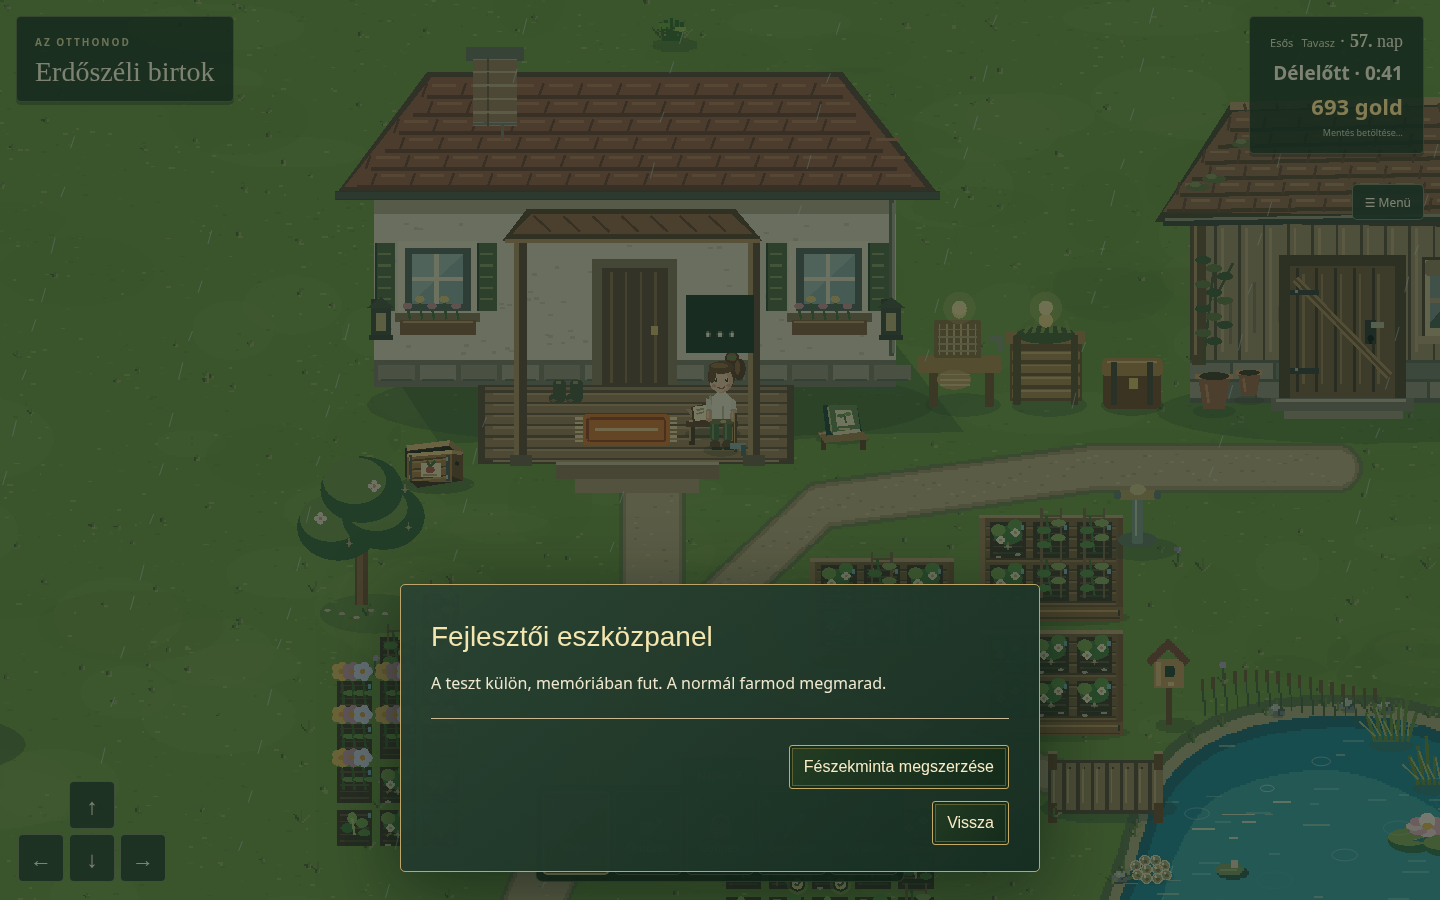
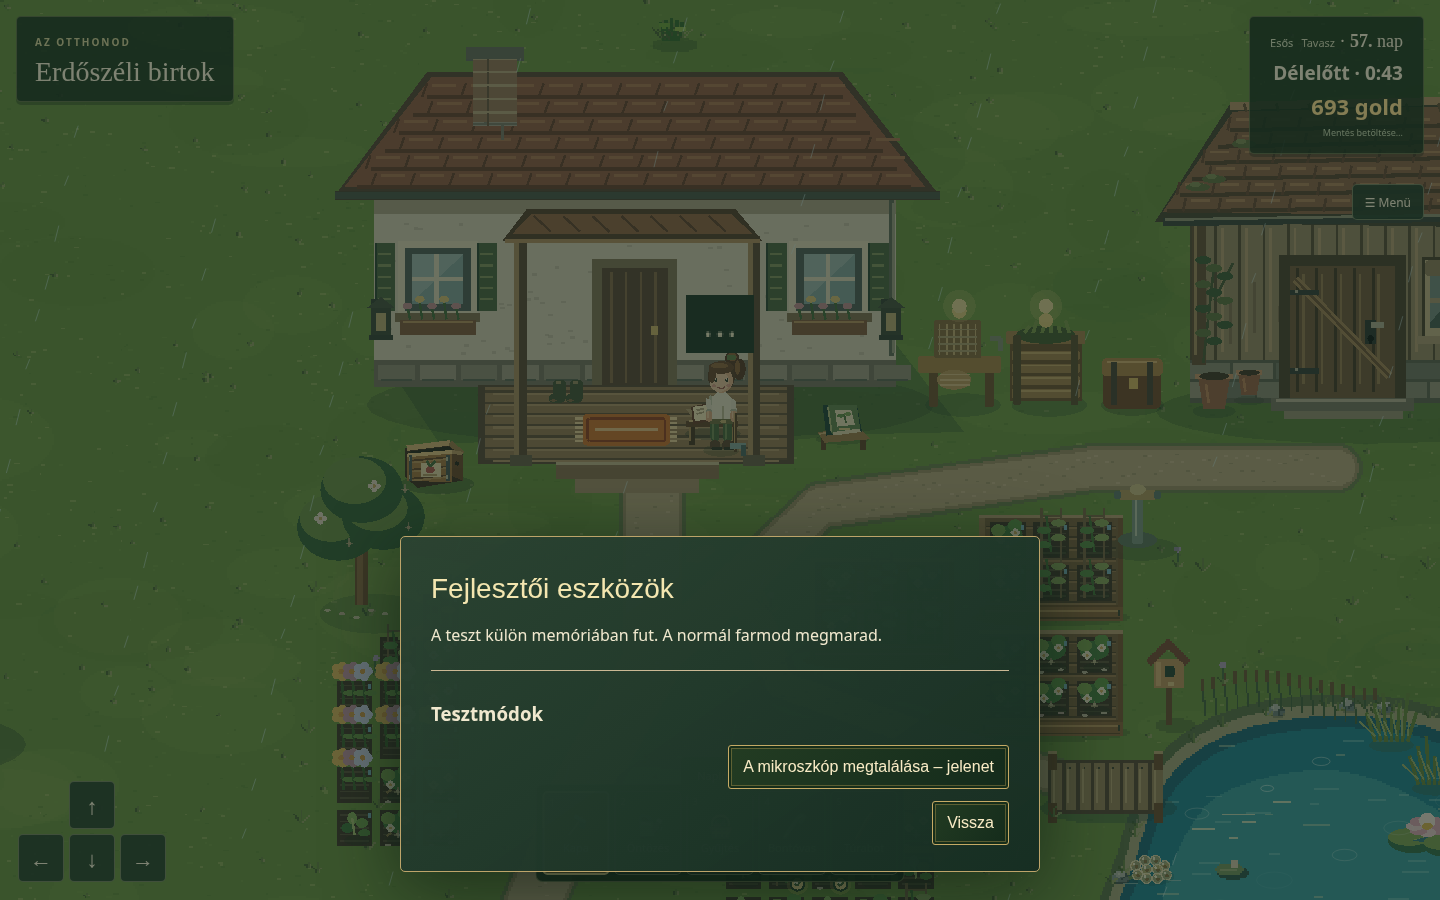
Hide developer tools behind dev URL and clarify scene labels

Changed region(s): [[0.2812, 0.5911, 0.7188, 0.8089], [0.5, 0.84, 0.6875, 0.8711]]

diff --git a/index.html b/index.html
@@ -23,7 +23,7 @@
   <div id="sleep-shade" aria-hidden="true"></div>
   <p id="status" role="status"></p>
   <div id="controls" aria-label="Mozgásvezérlés"><button data-dir="up" aria-label="Fel">↑</button><button data-dir="left" aria-label="Balra">←</button><button data-dir="down" aria-label="Le">↓</button><button data-dir="right" aria-label="Jobbra">→</button></div>
-  <button id="test-mode-banner" type="button" hidden>TESZTMÓD · Eszközpanel</button><div id="forest-health" hidden aria-live="polite"></div><aside id="quest-tracker" hidden aria-live="polite"></aside><dialog id="dialogue" aria-labelledby="dialogue-title"><form method="dialog"><div id="speaker" hidden><div id="speaker-portrait"></div><span id="speaker-name"></span></div><span class="eyebrow" id="dialogue-label" hidden></span><h2 id="dialogue-title" hidden></h2><p id="dialogue-text"></p><section id="preview-end-panel" hidden><button id="preview-farms" type="button">Tovább játszom</button></section><section id="start-panel" hidden><div class="start-actions"><button id="continue-farm" type="button" hidden>Folytatás<small id="continue-farm-name"></small></button><button id="new-farm" type="button">Új játék</button><button id="start-settings" type="button">Beállítások</button><button id="open-farms" type="button" class="menu-link">Mentett farmok</button></div><p id="farm-list-error" role="status"></p><button id="retry-farms" type="button" hidden>Újrapróbálom</button><h3 class="farm-library-heading">Mentett farmjaid</h3><button id="back-from-farms" type="button" class="menu-link">Vissza</button><div id="farm-list"></div></section><section id="morning-sale-panel" hidden></section><section id="level-reward-panel" hidden></section><section id="farm-name-panel" hidden><label for="farm-name">Farm neve</label><input id="farm-name" type="text" maxlength="80" autocomplete="off" aria-describedby="farm-name-error"><p id="farm-name-error" role="status"></p><button id="start-farm" type="button">Tovább</button><button id="cancel-farm-name" type="button">Vissza a főmenübe</button></section><section id="menu-panel" hidden><div class="pause-actions"><button id="resume-game" type="button">Vissza a játékba</button><button id="pause-settings" type="button">Beállítások</button><button id="open-start-menu" type="button">Főmenü</button></div><div class="menu-utilities"><button id="produce" type="button">Készlet</button><button id="story" type="button">Történet</button><button id="help" type="button">Irányítás</button><button id="microscope-test" type="button" hidden>Fejlesztői eszközpanel</button></div></section><section id="settings-panel" hidden><h3>Beállítások</h3><button id="music-toggle" type="button">Zene: be</button><label class="music-choice" for="music-track">Dallam<select id="music-track" aria-label="Háttérzene kiválasztása"></select></label><button id="menu-sound-toggle" type="button" aria-pressed="true">Menühangok: be</button><button id="settings-back" type="button">Vissza</button></section><section id="inventory-panel" hidden><div class="inventory-tabs" role="tablist" aria-label="Készlet, ismerősök, jártasságok, célok és tervrajzok"><button id="items-tab" type="button" role="tab" aria-selected="true" aria-controls="items-page">Készlet</button><button id="people-tab" type="button" role="tab" aria-selected="false" aria-controls="people-page" tabindex="-1">Ismerősök</button><button id="skills-tab" type="button" role="tab" aria-selected="false" aria-controls="skills-page" tabindex="-1">Jártasságok</button><button id="goals-tab" type="button" role="tab" aria-selected="false" aria-controls="goals-page" tabindex="-1">Célok</button><button id="blueprints-tab" type="button" role="tab" aria-selected="false" aria-controls="blueprints-page" tabindex="-1">Tervrajzok</button></div><div id="items-page" role="tabpanel" aria-labelledby="items-tab"><div id="backpack-summary" aria-live="polite"></div><div id="backpack-grid" class="backpack-grid" aria-label="A hátizsák rekeszei"></div><div id="inventory-extra-actions"></div><h3 id="carried-tools-title">Eszközök és küldetéstárgyak</h3><div id="carried-tools" class="carried-tools"></div></div><div id="people-page" role="tabpanel" aria-labelledby="people-tab" hidden></div><div id="skills-page" role="tabpanel" aria-labelledby="skills-tab" hidden></div><div id="goals-page" role="tabpanel" aria-labelledby="goals-tab" hidden></div><div id="blueprints-page" role="tabpanel" aria-labelledby="blueprints-tab" hidden></div></section><section id="research-panel" hidden></section><section id="shop-panel" hidden></section><section id="catalog-panel" hidden><div id="catalog-rows"></div><p id="catalog-total" role="status"></p><button id="place-order" type="button">Megrendelem</button></section><section id="mailbox-panel" hidden><p id="mailbox-content"></p><button id="collect-package" type="button">Átveszem a csomagot</button></section><section id="shipping-panel" hidden><div class="shipping-heading">Eladásra szánt termények</div><div id="shipping-crate" class="slot-grid" aria-label="Eladóláda"></div><div class="shipping-heading">A készleted</div><div id="shipping-inventory" class="slot-grid" aria-label="Betakarított termények"></div><p class="shipping-hint">Kattintás vagy húzás: teljes halom · Shift+kattintás: 1 db</p><p id="shipping-total"></p></section><button id="sleep" type="button" hidden>Pihenés reggelig</button><button id="export-save" type="button" hidden>Mentés letöltése</button><button id="dialogue-close" autofocus>Vissza</button></form></dialog>
+  <button id="test-mode-banner" type="button" hidden>TESZTMÓD · Eszközpanel</button><div id="forest-health" hidden aria-live="polite"></div><aside id="quest-tracker" hidden aria-live="polite"></aside><dialog id="dialogue" aria-labelledby="dialogue-title"><form method="dialog"><div id="speaker" hidden><div id="speaker-portrait"></div><span id="speaker-name"></span></div><span class="eyebrow" id="dialogue-label" hidden></span><h2 id="dialogue-title" hidden></h2><p id="dialogue-text"></p><section id="preview-end-panel" hidden><button id="preview-farms" type="button">Tovább játszom</button></section><section id="start-panel" hidden><div class="start-actions"><button id="continue-farm" type="button" hidden>Folytatás<small id="continue-farm-name"></small></button><button id="new-farm" type="button">Új játék</button><button id="start-settings" type="button">Beállítások</button><button id="open-farms" type="button" class="menu-link">Mentett farmok</button></div><p id="farm-list-error" role="status"></p><button id="retry-farms" type="button" hidden>Újrapróbálom</button><h3 class="farm-library-heading">Mentett farmjaid</h3><button id="back-from-farms" type="button" class="menu-link">Vissza</button><div id="farm-list"></div></section><section id="morning-sale-panel" hidden></section><section id="level-reward-panel" hidden></section><section id="farm-name-panel" hidden><label for="farm-name">Farm neve</label><input id="farm-name" type="text" maxlength="80" autocomplete="off" aria-describedby="farm-name-error"><p id="farm-name-error" role="status"></p><button id="start-farm" type="button">Tovább</button><button id="cancel-farm-name" type="button">Vissza a főmenübe</button></section><section id="menu-panel" hidden><div class="pause-actions"><button id="resume-game" type="button">Vissza a játékba</button><button id="pause-settings" type="button">Beállítások</button><button id="open-start-menu" type="button">Főmenü</button></div><div class="menu-utilities"><button id="produce" type="button">Készlet</button><button id="story" type="button">Történet</button><button id="help" type="button">Irányítás</button><button id="microscope-test" type="button" hidden>Fejlesztői eszközök</button></div></section><section id="settings-panel" hidden><h3>Beállítások</h3><button id="music-toggle" type="button">Zene: be</button><label class="music-choice" for="music-track">Dallam<select id="music-track" aria-label="Háttérzene kiválasztása"></select></label><button id="menu-sound-toggle" type="button" aria-pressed="true">Menühangok: be</button><button id="settings-back" type="button">Vissza</button></section><section id="inventory-panel" hidden><div class="inventory-tabs" role="tablist" aria-label="Készlet, ismerősök, jártasságok, célok és tervrajzok"><button id="items-tab" type="button" role="tab" aria-selected="true" aria-controls="items-page">Készlet</button><button id="people-tab" type="button" role="tab" aria-selected="false" aria-controls="people-page" tabindex="-1">Ismerősök</button><button id="skills-tab" type="button" role="tab" aria-selected="false" aria-controls="skills-page" tabindex="-1">Jártasságok</button><button id="goals-tab" type="button" role="tab" aria-selected="false" aria-controls="goals-page" tabindex="-1">Célok</button><button id="blueprints-tab" type="button" role="tab" aria-selected="false" aria-controls="blueprints-page" tabindex="-1">Tervrajzok</button></div><div id="items-page" role="tabpanel" aria-labelledby="items-tab"><div id="backpack-summary" aria-live="polite"></div><div id="backpack-grid" class="backpack-grid" aria-label="A hátizsák rekeszei"></div><div id="inventory-extra-actions"></div><h3 id="carried-tools-title">Eszközök és küldetéstárgyak</h3><div id="carried-tools" class="carried-tools"></div></div><div id="people-page" role="tabpanel" aria-labelledby="people-tab" hidden></div><div id="skills-page" role="tabpanel" aria-labelledby="skills-tab" hidden></div><div id="goals-page" role="tabpanel" aria-labelledby="goals-tab" hidden></div><div id="blueprints-page" role="tabpanel" aria-labelledby="blueprints-tab" hidden></div></section><section id="research-panel" hidden></section><section id="shop-panel" hidden></section><section id="catalog-panel" hidden><div id="catalog-rows"></div><p id="catalog-total" role="status"></p><button id="place-order" type="button">Megrendelem</button></section><section id="mailbox-panel" hidden><p id="mailbox-content"></p><button id="collect-package" type="button">Átveszem a csomagot</button></section><section id="shipping-panel" hidden><div class="shipping-heading">Eladásra szánt termények</div><div id="shipping-crate" class="slot-grid" aria-label="Eladóláda"></div><div class="shipping-heading">A készleted</div><div id="shipping-inventory" class="slot-grid" aria-label="Betakarított termények"></div><p class="shipping-hint">Kattintás vagy húzás: teljes halom · Shift+kattintás: 1 db</p><p id="shipping-total"></p></section><button id="sleep" type="button" hidden>Pihenés reggelig</button><button id="export-save" type="button" hidden>Mentés letöltése</button><button id="dialogue-close" autofocus>Vissza</button></form></dialog>
 <dialog id="delete-farm-dialog" aria-labelledby="delete-farm-title" aria-describedby="delete-farm-warning"><h2 id="delete-farm-title">Farm törlése</h2><p id="delete-farm-name"></p><p id="delete-farm-warning">Biztosan törölni szeretnéd ezt a farmot? A farm törlés után nem visszaállítható.</p><p id="delete-farm-error" role="status"></p><div class="delete-farm-actions"><button id="cancel-delete-farm" type="button">Mégse</button><button id="confirm-delete-farm" type="button">Törlés</button></div></dialog></main>
 <script type="module" src="/src/main.ts"></script>
 </body></html>

diff --git a/cypress/e2e/forest.cy.ts b/cypress/e2e/forest.cy.ts
@@ -4,7 +4,7 @@ import {createGarden} from '../../src/gardening';
 import {createForest,forestEnemies} from '../../src/forest';
 import {gainGardening} from '../../src/gardening-skill';
 function press(key:string,code:string,n:number){cy.get('body').trigger('keydown',{key,code,keyCode:n,which:n});cy.get('body').trigger('keyup',{key,code,keyCode:n,which:n});}
-function start(data:Snapshot){cy.visit('/',{onBeforeLoad(win){win.indexedDB.deleteDatabase('erdoszeli-birtok');const r=win.indexedDB.open('erdoszeli-birtok',1);r.onupgradeneeded=()=>r.result.createObjectStore('saves');r.onsuccess=()=>{const tx=r.result.transaction('saves','readwrite');tx.objectStore('saves').put(data,'active');tx.oncomplete=()=>r.result.close();};}});cy.get('#game').should('have.attr','data-ready','true');cy.get('#continue-farm').should('be.visible').and('not.be.disabled').click();}
+function start(data:Snapshot,dev=false){cy.visit(dev?'/?dev=1':'/',{onBeforeLoad(win){win.indexedDB.deleteDatabase('erdoszeli-birtok');const r=win.indexedDB.open('erdoszeli-birtok',1);r.onupgradeneeded=()=>r.result.createObjectStore('saves');r.onsuccess=()=>{const tx=r.result.transaction('saves','readwrite');tx.objectStore('saves').put(data,'active');tx.oncomplete=()=>r.result.close();};}});cy.get('#game').should('have.attr','data-ready','true');cy.get('#continue-farm').should('be.visible').and('not.be.disabled').click();}
 function fresh(x=330,y=260){const s=snapshot({x,y},createClock(10),createGarden());s.farmName='Erdőszéli birtok';s.travel.weatherSeed=13;s.story={giftReceived:true,morningSeen:true,birdhouse:{x:280,y:296}};return s;}
 function clickWorld(x:number,y:number){cy.get('#game').then(el=>{const z=Number(el.attr('data-zoom'));cy.get('canvas').click((x-Number(el.attr('data-camera-x')))*z,(y-Number(el.attr('data-camera-y')))*z);});}
 function repairedWorkshop(s:Snapshot){const flowers=[[341,272],[365,272],[389,272],[341,296],[365,296],[389,296]].map(([x,y])=>({x,y,growth:4}));s.plots=flowers.map(f=>[`${f.x},${f.y}`,{crop:null,growth:0,regrowing:false,watered:false}]);s.travel.research={...s.travel.research,gifted:true,seeds:0,flowers,beeDay:8,observation:{day:9,seasonDay:9,plant:'Tavaszi vadvirágkeverék'},key:true,shutter:true,entranceShutter:true,discovered:true,repaired:true,examined:['vat','pipes','filter','coil']};return s;}
@@ -29,7 +29,7 @@ it('remembers the workshop name after the first entry, even before opening the s
 });
 
 it('prepares the nest encounter repeatedly in an isolated memory copy of any farm',()=>{
- const s=repairedWorkshop(fresh(250,220));s.farmName='Próba birtok';s.economy.gold=347;s.clearing.wood=40;s.travel.forest={...createForest(),stick:true,defeated:forestEnemies.map(e=>e.id),sample:true,examined:true,sent:true};start(s);cy.get('#menu').click();cy.get('#microscope-test').should('be.visible').click();cy.get('#prepare-microscope-test').click();cy.get('#game').should('have.attr','data-region','forest').and('have.attr','data-forest-sample','false').and('have.attr','data-gold','347').and('have.attr','data-wood','40').and('have.attr','data-microscope-ready','false');press('e','KeyE',69);cy.get('#collect-nest-sample').click();cy.get('#dialogue-title').should('have.text','A minta biztonságban van');cy.get('#dialogue-close').click();cy.get('#game').should('have.attr','data-forest-sample','true');cy.get('#game').should('not.have.attr','data-microscope-delivery');
+ const s=repairedWorkshop(fresh(250,220));s.farmName='Próba birtok';s.economy.gold=347;s.clearing.wood=40;s.travel.forest={...createForest(),stick:true,defeated:forestEnemies.map(e=>e.id),sample:true,examined:true,sent:true};start(s,true);cy.get('#menu').click();cy.get('#microscope-test').should('be.visible').click();cy.get('#prepare-microscope-test').click();cy.get('#game').should('have.attr','data-region','forest').and('have.attr','data-forest-sample','false').and('have.attr','data-gold','347').and('have.attr','data-wood','40').and('have.attr','data-microscope-ready','false');press('e','KeyE',69);cy.get('#collect-nest-sample').click();cy.get('#dialogue-title').should('have.text','A minta biztonságban van');cy.get('#dialogue-close').click();cy.get('#game').should('have.attr','data-forest-sample','true');cy.get('#game').should('not.have.attr','data-microscope-delivery');
  cy.get('#menu').click();cy.get('#microscope-test').click();cy.get('#prepare-microscope-test').click();cy.get('#game').should('have.attr','data-forest-sample','false').and('have.attr','data-gold','347');
  cy.get('#test-mode-banner').should('be.visible').click();cy.get('#exit-test-mode').click();cy.get('#game').should('have.attr','data-ready','true').and('have.attr','data-forest-sample','true');cy.get('#test-mode-banner').should('not.be.visible');
 });

diff --git a/src/main.ts b/src/main.ts
@@ -272,7 +272,7 @@ class Farm extends Phaser.Scene {
  private currentSnapshot(){return snapshot(this.actor,this.clock,this.garden,this.economy,this.orders,this.farmName,this.clearing,this.story,this.skill,this.farmerName,this.travel);}
  private openPauseMenu(){
   if(!this.ready||this.transitioning||this.morningPlaying||this.microscopeDeliveryPlaying)return;
-  showDialogue('Menü','','');document.querySelector<HTMLButtonElement>('#microscope-test')!.hidden=false;document.querySelector<HTMLElement>('#menu-panel')!.hidden=false;
+  showDialogue('Menü','','');document.querySelector<HTMLButtonElement>('#microscope-test')!.hidden=new URLSearchParams(location.search).get('dev')!=='1';document.querySelector<HTMLElement>('#menu-panel')!.hidden=false;
   document.querySelector<HTMLButtonElement>('#resume-game')!.focus();
  }
  private openSettings(origin:'start'|'pause'){
@@ -1140,10 +1140,11 @@ class Farm extends Phaser.Scene {
  }
  private testBaseline:Snapshot|null=null;
  private openMicroscopeTest(){
-  if(!this.ready||this.transitioning)return;
-  showDialogue('Fejlesztői eszközpanel','A teszt külön, memóriában fut. A normál farmod megmarad.','');
+  if(!this.ready||this.transitioning||new URLSearchParams(location.search).get('dev')!=='1')return;
+  showDialogue('Fejlesztői eszközök','A teszt külön memóriában fut. A normál farmod megmarad.','');
   const panel=document.querySelector<HTMLElement>('#research-panel')!;panel.replaceChildren();panel.hidden=false;
-  const button=document.createElement('button');button.type='button';button.id='prepare-microscope-test';button.textContent=this.store.testMode?'Fészekminta megszerzése · Újraindítás':'Fészekminta megszerzése';button.onclick=async()=>{
+  const heading=document.createElement('h3');heading.textContent='Tesztmódok';panel.append(heading);
+  const button=document.createElement('button');button.type='button';button.id='prepare-microscope-test';button.textContent=this.store.testMode?'A mikroszkóp megtalálása – jelenet · Újraindítás':'A mikroszkóp megtalálása – jelenet';button.onclick=async()=>{
    if(this.transitioning)return;button.disabled=true;
    try{
     if(!this.store.testMode){

diff --git a/docs/jatekterv.md b/docs/jatekterv.md
@@ -858,3 +858,8 @@ Amikor Sam először közel sétál valóban sikertelen terméskötődést mutat
 - A teszthelyzet előkészíti a megjavított Műhelyt, a fészek mellé helyezi Samet mintavétel előtt, hogy a hazatéréskor induló mikroszkópos jelenet ismét kipróbálható legyen. A korábbi fészekmegfigyelések csak a tesztmásolatból törlődnek.
 - Állandó TESZTMÓD jelzés nyitja a panelt. Újraindítás mindig a belépéskori farm másolatából indul. Kilépés az eredeti, mentett állapothoz tér vissza; oldalfrissítés/bezárás eldobja a tesztet. A panel egyszerű bezárása nem léptet ki a tesztből.
 - Ez nem külön Dev weboldal vagy kiadási ág, hanem ugyanazon játék elkülönített tesztüzemmódja. A mentésformátum változatlanul 18.
+
+### Fejlesztői eszközök elrejtése — 2026. október 28.
+- A Menü fejlesztői menüpontja csak a `?dev=1` URL-paraméterrel jelenik meg; ez kényelmi elrejtés, nem hozzáférés-védelem. Paraméter nélkül a panel megnyitása is tiltott.
+- Ablakcím és menüpont: Fejlesztői eszközök. Alcím: Tesztmódok. Jelenetgomb: A mikroszkóp megtalálása – jelenet. Szöveg: „A teszt külön memóriában fut. A normál farmod megmarad.”
+- A paraméter újratöltés és tesztből kilépés után is a hivatkozás része marad.

diff --git a/README.md b/README.md
@@ -116,3 +116,7 @@ A ház jobb oldali ablaka melletti katalóguskönyvre kattintva vagy közelről 
 - [Magkatalógus](docs/concepts/farm-catalogue.png)
 - [Aktuális mobilnézet](docs/concepts/farm-clean-mobile.png)
 - [Mobilos katalógus](docs/concepts/farm-catalogue-mobile.png)
+
+### Fejlesztői tesztmódok
+
+A játék hivatkozását `?dev=1` paraméterrel megnyitva a Menüben megjelenik a **Fejlesztői eszközök** menüpont. A **Tesztmódok → A mikroszkóp megtalálása – jelenet** külön, memóriában futó farmmásolatot indít. Kilépéskor az eredeti farm folytatódik; frissítéskor a teszt elvész. Paraméter nélkül a panel rejtett. Ez nem jelszavas hozzáférés-védelem.

diff --git a/CHANGELOG.md b/CHANGELOG.md
@@ -1,5 +1,10 @@
 # Változások
 
+## 0.1.2 — 2026. október 28.
+
+- A Fejlesztői eszközök csak a `?dev=1` hivatkozással érhetők el.
+- Tesztmódok alcím és „A mikroszkóp megtalálása – jelenet” gomb; javított szövegezés.
+
 ## 0.1.1 — 2026. október 28.
 
 - Fejlesztői eszközpanel a Menüben, „Fészekminta megszerzése” teszthelyzettel.
